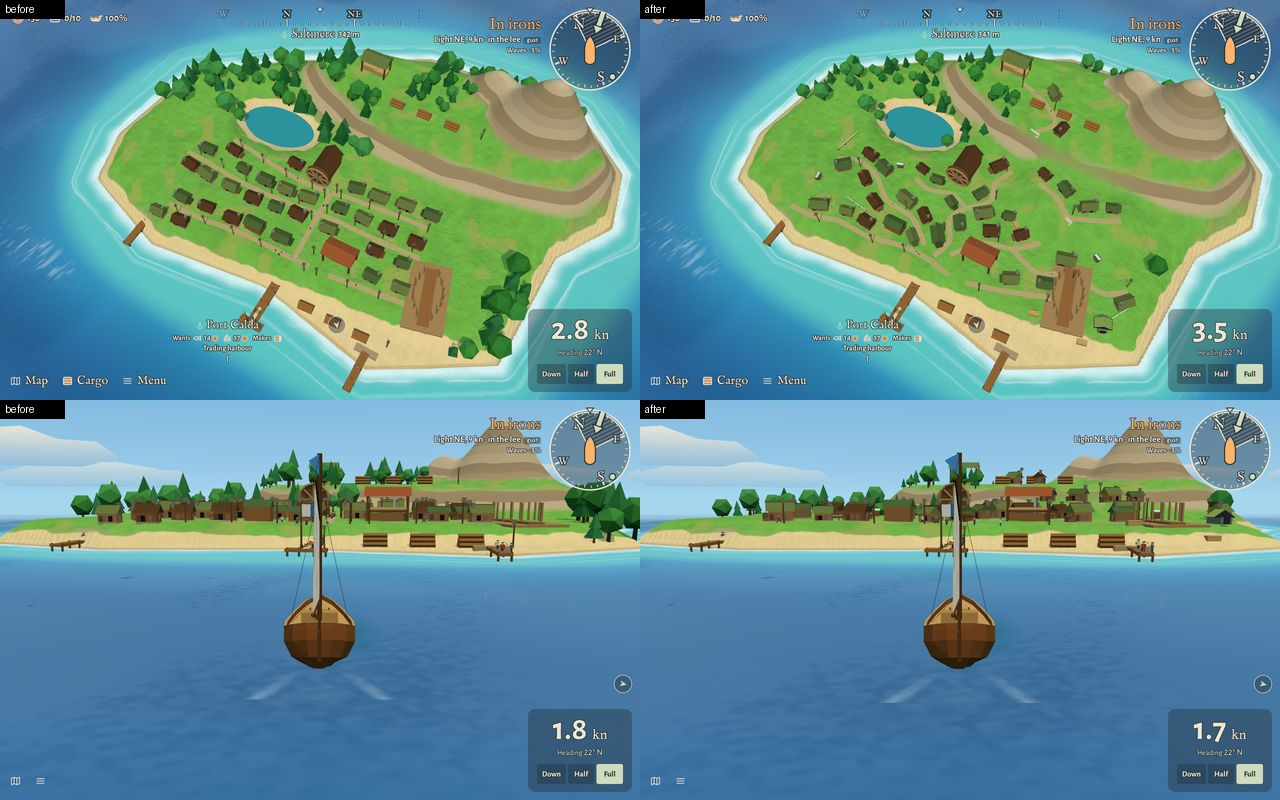
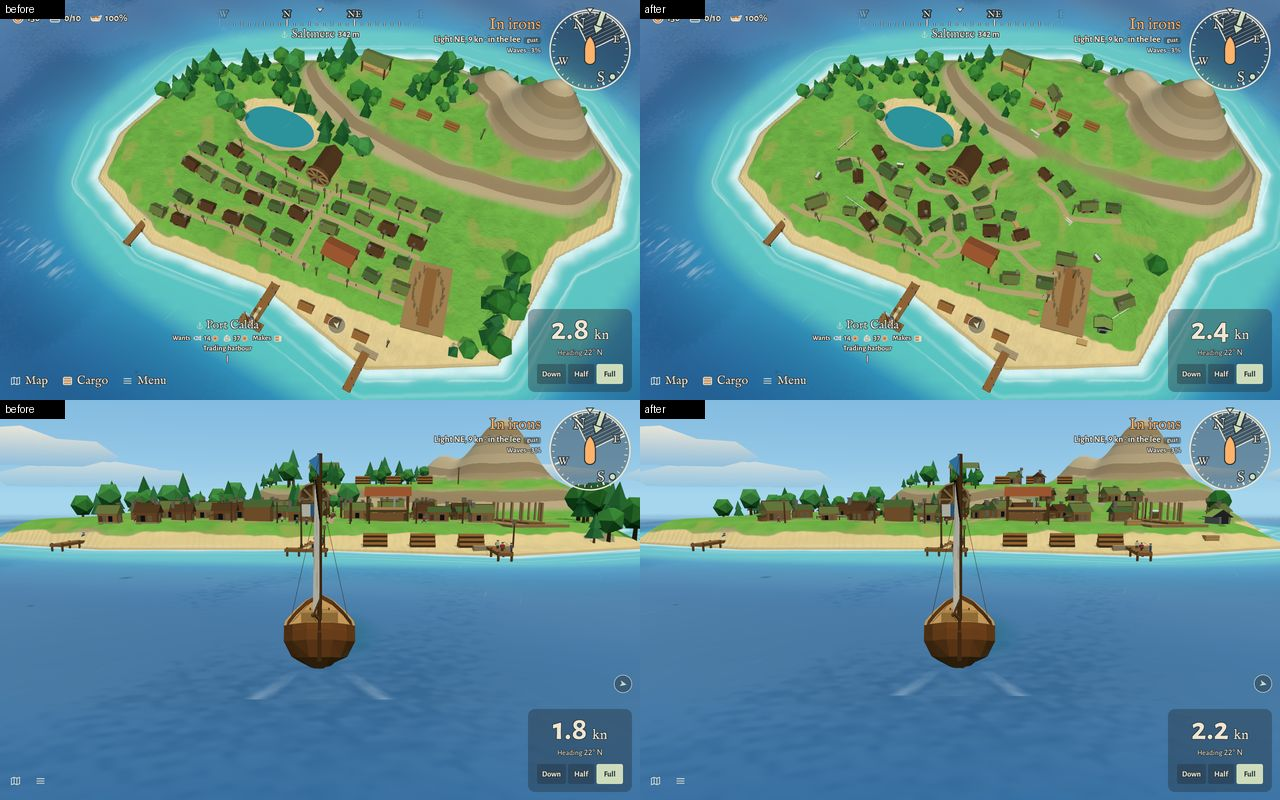
Calda and Stonehaven after the art director's review (#528)
Calda: a lane-ringed square at the quay head, the west block broken into
uneven groups of mixed sizes at their own angles. Stonehaven: the square
ringed by lanes with the biggest houses fronting it, the quay row
staggered, the plateau houses in three groups. Sheets and notes updated.

Claude-Session: https://claude.ai/code/session_013jvdBv1SNp3xPuCPk1mLUJ

diff --git a/tests/island-files.test.ts b/tests/island-files.test.ts
@@ -129,10 +129,10 @@ describe('island files (decision 0101)', () => {
 });
 
 const GOLDEN: Record<string, string[]> = {
-  calda: ['503:f9f210fa', '678:1d353dd1', '860:94ea87ab', '1035:ba3fed3d'],
+  calda: ['527:89f9edc5', '697:a3528725', '879:ef51a746', '1054:80e26aa8'],
   saltmere: ['317:9d801ce4', '550:4e2b43fe', '781:26801f63', '979:f6a495b2'],
   westholm: ['262:7a66864a', '504:83c1b67c', '711:50d1a365', '868:c81e0aba'],
-  'south-cay': ['224:319a6604', '359:c2a1a107', '479:c3e7ae17', '633:9bf1e0c4'],
+  'south-cay': ['241:9ac4b4b5', '372:1dc63e04', '493:31dfd151', '643:64e8b14e'],
   skerry: ['246:cc0b40d7', '250:4172fa2e', '253:7967dea8', '253:7967dea8'],
   'bell-rock': ['13:149f2ca0', '13:149f2ca0', '13:149f2ca0', '13:149f2ca0'],
   'abbey-head': ['53:5030ad49', '102:3507cae6', '147:9f62109d', '190:69b424cb'],

diff --git a/docs/decisions/0307-ring-towns-rebuilt-as-villages-village-rules-now-hard.md b/docs/decisions/0307-ring-towns-rebuilt-as-villages-village-rules-now-hard.md
@@ -9,17 +9,19 @@ v1.9 made the ring towns pass the hard town rules by laying them out as streets 
 ## Decision
 
 - **Each ring town is rebuilt for its trade and ground** (art bible §12 table), every change a `npm run island` step; ports, piers, quest places and signature buildings stay where they were.
-  - **Calda** (timber): lanes fan out from the quay head; a new low terrace east of the bay carries a second group; two woodcutters' cabins stand up in the wood; a boat shed, planks and wood sheds by the slipway. Lamps 31 to 16.
+  - **Calda** (timber): a small square ringed by lanes at the quay head, lanes fanning out from it, cabins of mixed sizes in uneven groups at their own angles; a new low terrace east of the bay carries a second group; two woodcutters' cabins stand up in the wood; a boat shed, planks and wood sheds by the slipway. Lamps 31 to 16.
   - **Saltmere** (fish): one quay lane curves round the bay with short lanes off it to the kirk, the smokehouses and the east lobe. The houses nearest the quay are smaller than the outer ones (a fishing quarter). The racks on the net green stand loose, not in ranks.
   - **Westholm** (grain): farmhouses stand round an open green with lanes out to the mills, the granary, the cove and the east pier; the fields stay at the sides.
-  - **Stonehaven** (stone): a market hall and a small square at the pier head; one winding main street under the cliff to the stairs, a wharf lane past the crane, a quay lane east; eight houses loose round the keep with field walls. No house stands on the quarry floor.
+  - **Stonehaven** (stone): a market hall on a square ringed by lanes at the pier head, the biggest houses fronting it; one winding main street under the cliff to the stairs, a wharf lane past the crane, a quay lane east with a staggered row; eight houses in three groups round the keep with field walls. No house stands on the quarry floor.
   - **Abbey Head, Watchman Key**: the cottages turn to their own angles. **Skerry** keeps its home plots (quest places). Lantern Rock and Teeth Rock have no houses.
 - **Ring trees are lower** (#544): `forests.json` pine scale 0.8-1.35 to 0.55-0.95, broadleaf 0.8-1.3 to 0.7-1.1, so a fir is under two houses tall.
 - **The village rules are hard**: `grading.village` is `"error"`, and `tests/island-files.test.ts` no longer lists `town-grid`, `town-centre` and `town-lanes` as known warnings. All 16 towns audit with no fail and no warning.
 
 ## Consequences
 
-- **Ring mesh budget +200** (`tests/strategic-map.test.ts`, far level 21,500 to 21,700; it draws 21,587): Calda costs about 120 more (its terrace is new ground) and Westholm about 190; Saltmere and Stonehaven got cheaper. Per island all stay inside 8,500 (Calda 8,275, Saltmere 8,301 with the new open racks).
+- **Art director's review** (v1.10): Saltmere and Westholm passed; Calda's core still read as rows and Stonehaven as loose scatter, so both got their square and tighter, uneven groups before the merge.
+
+- **Ring mesh budget +200** (`tests/strategic-map.test.ts`, far level 21,500 to 21,700; it draws 21,641): Calda costs about 170 more (its terrace is new ground, its square new lanes) and Westholm about 190; Saltmere and Stonehaven got cheaper. Per island all stay inside 8,500 (Calda 8,313, Saltmere 8,301 with the new open racks).
 - **Westholm has no millpond yet.** The art bible asks for one; a pond small enough to fit between the green and the west fields draws as a patch of sand (its rim covers the water), and a larger one takes two houses' ground. It needs its own plan.
 - Tests tied to the old layouts follow the villages (`tests/island-layout.test.ts`): Calda keeps 15 upland trees or more (was 20; the two cabins and their lane clear some), and bare Saltmere may keep its ten trees as it grows, since the village no longer spreads into them. Golden island hashes regenerated.
 - The first three homes of each town still stand together by the harbour (level 1 is one cluster).

diff --git a/docs/reviews/v1.10/towns/ring.md b/docs/reviews/v1.10/towns/ring.md
@@ -6,14 +6,18 @@ Each sheet: before left, after right; top row the sailing camera, bottom row the
 
 | Town | Sheet | Feeling asked (§12 table) | What changed |
 |---|---|---|---|
-| Calda | [sheet](calda.jpg) | Working harbour on a slope, tight core round the slipway | The three-street grid is gone. Lanes fan out from the quay head; a new low terrace east of the bay carries a second group of cabins; two woodcutters' cabins stand up in the wood. A boat shed and planks by the slipway, wood sheds and fences where the village thins. Lamps 31 to 16. |
+| Calda | [sheet](calda.jpg) | Working harbour on a slope, tight core round the slipway | The three-street grid is gone. A small square ringed by lanes at the quay head, lanes fanning out from it, cabins of mixed sizes in uneven groups; a new low terrace east of the bay carries a second group of cabins; two woodcutters' cabins stand up in the wood. A boat shed and planks by the slipway, wood sheds and fences where the village thins. Lamps 31 to 16. |
 | Saltmere | [sheet](saltmere.jpg) | Fishing village along a bay: a curved quay lane, clusters behind it | One quay lane curves round the bay, with short lanes to the kirk, the smokehouses and the east lobe. Houses nearest the quay are smaller than the outer ones. The racks and crates of the net green stand loose, not in ranks. |
 | Westholm | [sheet](westholm.jpg) | Farming-and-mill village: a green, lanes fanning out | Farmhouses round an open green; lanes leave it for the mills, the granary, the cove and the east pier. One field moved so no field lies between a house and its water. |
-| Stonehaven | [sheet](stonehaven.jpg) | Stone town, the densest, round a market square | A market hall and a small square at the pier head; one winding main street under the cliff to the stairs, a wharf lane past the crane, a quay lane east. Eight houses stand loose round the keep, with field walls. Crane, quarry and stone stacks untouched. |
+| Stonehaven | [sheet](stonehaven.jpg) | Stone town, the densest, round a market square | A market hall on a square ringed by lanes at the pier head, the biggest houses fronting it; one winding main street under the cliff to the stairs, a wharf lane past the crane, a quay lane east with a staggered row. Eight houses stand in three groups round the keep, with field walls. Crane, quarry and stone stacks untouched. |
 | Abbey Head | [sheet](abbey-head.jpg) | Cottages tucked below the abbey at odd angles | The cottages turn to their own angles and no longer stand in two straight files. |
 | Watchman Key | [sheet](watchman-key.jpg) | Hamlet under the light (not in the table) | Same: each cottage has its own angle. |
 
 Skerry keeps its home plots (they are quest places, and it was no grid). Lantern Rock and Teeth Rock have no houses.
+
+## Art director's review
+
+Saltmere and Westholm passed at first look. Calda's core still read as rows and Stonehaven as loose scatter: both were reworked (the sheets show the second version).
 
 ## Not done
 
@@ -25,7 +29,7 @@ Ring firs stood about three houses tall. `forests.json`: pine scale 0.8-1.35 →
 
 ## Budget and tests
 
-- Ring mesh at the phones' far level: 21,587 triangles, limit raised 21,500 → 21,700 (decision 0307: Calda's terrace is new ground, Westholm's lanes are longer). Per island all inside 8,500: Calda 8,275, Saltmere 8,301, Westholm 6,051, Stonehaven 5,161.
+- Ring mesh at the phones' far level: 21,641 triangles, limit raised 21,500 → 21,700 (decision 0307: Calda's terrace is new ground, the lanes are longer). Per island all inside 8,500: Calda 8,313, Saltmere 8,301, Westholm 6,051, Stonehaven 5,181.
 - `tests/island-layout.test.ts`: Calda keeps 15 upland trees or more (was 20); Saltmere may keep its ten trees as it grows. Level 1 of each town is still one cluster by the harbour.
 
 ## Re-create
